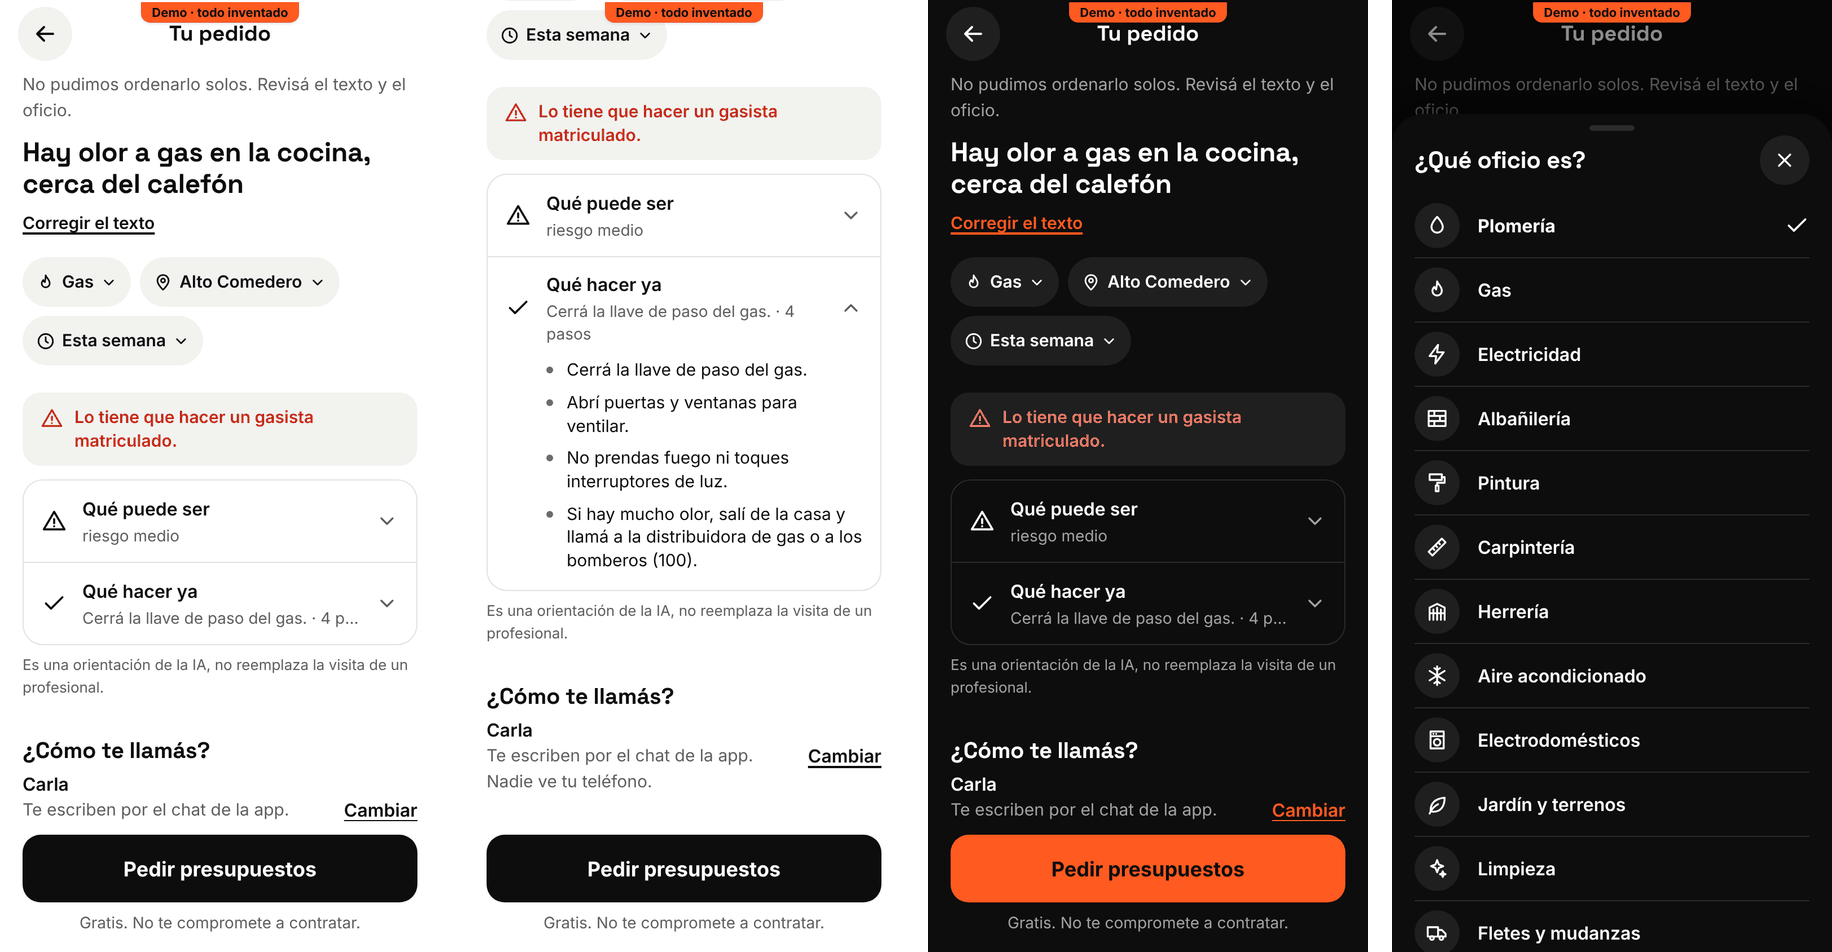
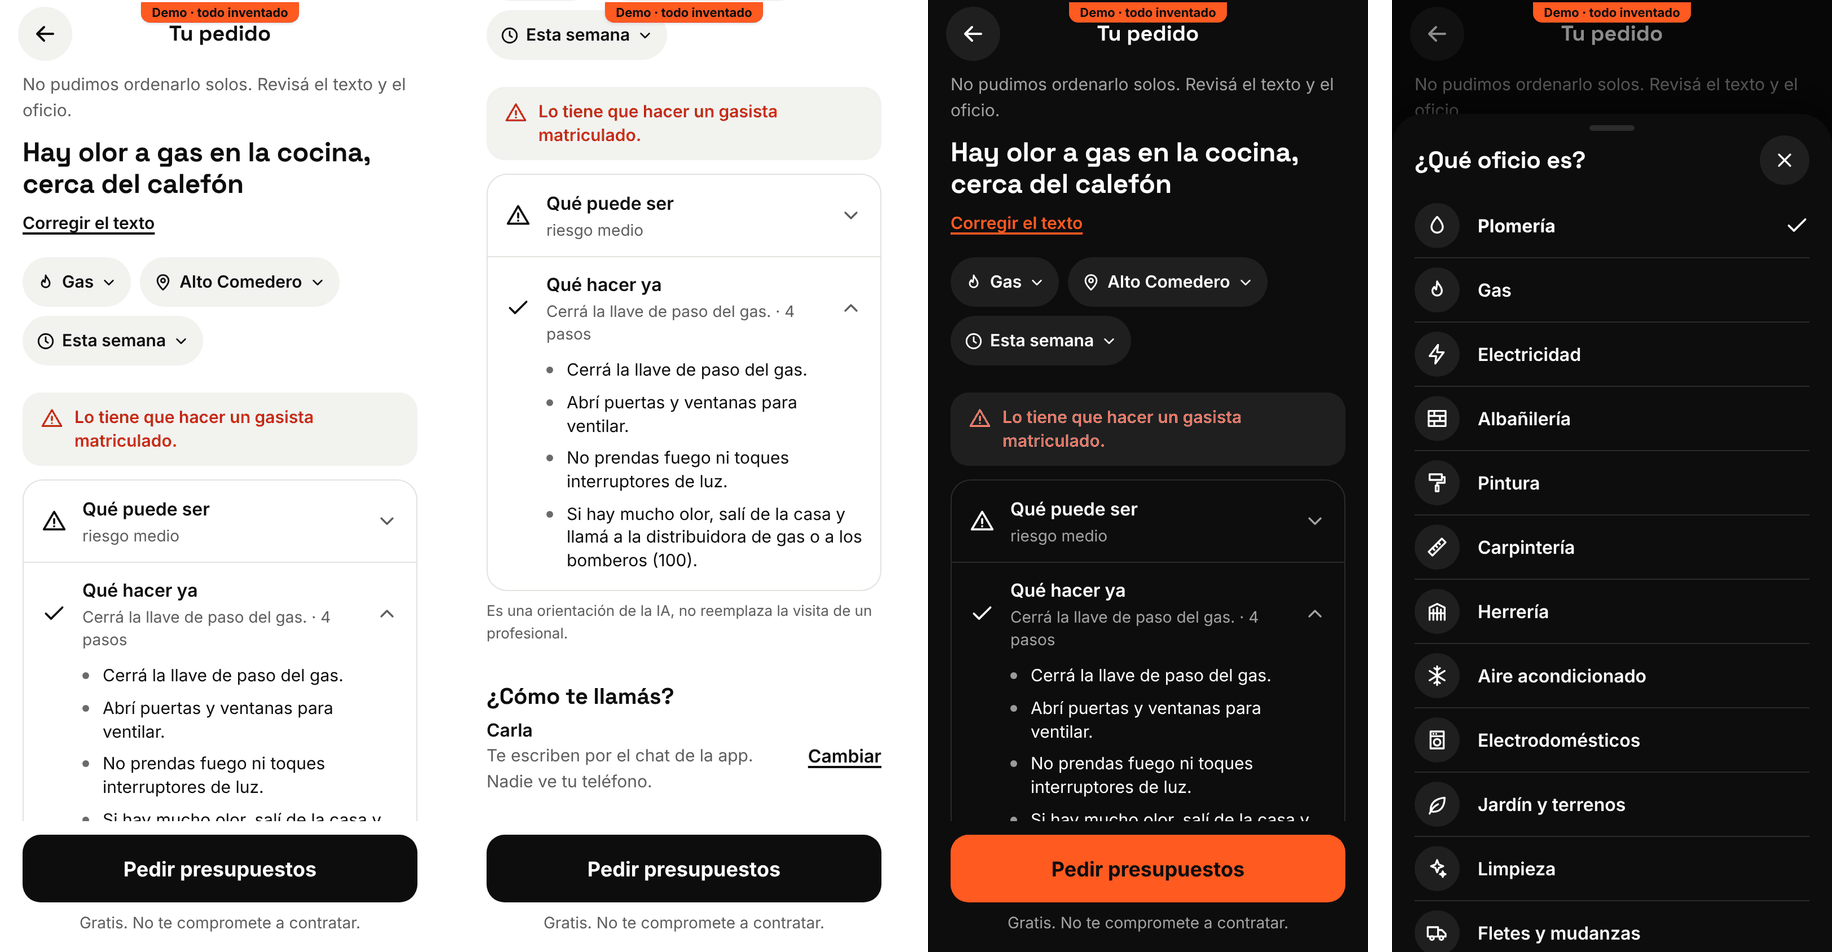
Contar: la precarga no pisa lo escrito al volver, atrás de Android vuelve un paso, y los pasos de seguridad a la vista

Changed region(s): [[0.0, 0.6092, 0.2178, 0.8834], [0.5289, 0.6092, 0.7467, 0.8834]]

diff --git a/src/app/pedir/page.tsx b/src/app/pedir/page.tsx
@@ -6,6 +6,7 @@ import { CajaRelato } from "@/components/CajaRelato";
 import { Diagnostico } from "@/components/Diagnostico";
 import { EntrarACuenta } from "@/components/EntrarACuenta";
 import { ChipConOpciones } from "@/components/Hoja";
+import { useCerrarConAtras } from "@/components/useAtras";
 import { Mapa } from "@/components/Mapa";
 import { iconoDe, useMisPedidos, type MiPedido } from "@/components/useMisPedidos";
 import { BotonPrimario, Cabecera, Campo, ErrorDePantalla, Falta, Icono, Pantalla, PildoraFlotante, Seccion, Titulo, claseCampo } from "@/components/ui";
@@ -47,6 +48,17 @@ const URGENCIAS: { id: Urgencia; texto: string; icono: string }[] = [
   { id: "flexible", texto: "Sin apuro", icono: "calendario" },
 ];
 const OFICIOS = RUBROS.map((r) => ({ id: r.id as RubroId, texto: r.nombre, icono: r.id }));
+// En Contar se puede volver a dejar el oficio en manos de la IA.
+const OFICIOS_O_LA_APP: { id: RubroId | "app"; texto: string; icono: string; detalle?: string }[] = [
+  { id: "app", texto: "Que lo decida la app", icono: "ayuda", detalle: "Según lo que cuentes" },
+  ...OFICIOS,
+];
+
+// En la app de Android, el botón atrás del celular vuelve un paso (si no, cerraría la app: todos los pasos son "/").
+function AtrasVuelveUnPaso({ alVolver }: { alVolver: () => void }) {
+  useCerrarConAtras(alVolver);
+  return null;
+}
 
 // Accesos por oficio en el inicio: tocar uno abre Contar con ese oficio elegido.
 const OFICIOS_DEL_INICIO: RubroId[] = ["plomeria", "electricidad", "gas", "cerrajeria", "albanileria", "pintura", "carpinteria", "herreria"];
@@ -101,10 +113,16 @@ export default function Pedir() {
     usoLaVoz.current = true;
   }, []);
 
-  // "Pedir de nuevo" y los oficios del inicio llegan con el relato y el oficio en el historial: se precargan.
+  // "Pedir de nuevo", los oficios del inicio y los perfiles públicos (?texto=) llegan con el relato y el oficio:
+  // se precargan una sola vez y se sacan de la entrada del historial. Así, volver o avanzar a Contar no pisa lo
+  // que la persona escribió después (y no se puede publicar dos veces lo mismo volviendo atrás).
   useEffect(() => {
+    const texto = parametros.get("texto");
+    if (!estadoDelPaso.relato && !estadoDelPaso.rubro && texto === null) return;
     if (estadoDelPaso.relato) setRelato(estadoDelPaso.relato);
+    else if (texto !== null) setRelato(texto);
     if (estadoDelPaso.rubro) setRubroElegido(estadoDelPaso.rubro);
+    navegar(ubicacion.pathname, { replace: true, state: { paso: estadoDelPaso.paso ?? "contar" } });
     // Solo cuando cambia la entrada del historial.
   }, [ubicacion.key]);
 
@@ -139,7 +157,7 @@ export default function Pedir() {
 
   // Volver a Contar con el botón atrás después de publicar deja la pantalla vacía: ahí se va al inicio.
   useEffect(() => {
-    if (paso === "contar" && tipoDeNavegacion === "POP" && !relato.trim() && !estadoDelPaso.relato) {
+    if (paso === "contar" && tipoDeNavegacion === "POP" && !relato.trim()) {
       navegar(ubicacion.pathname, { replace: true, state: null });
     }
     // Solo al llegar a esta entrada del historial.
@@ -283,6 +301,7 @@ export default function Pedir() {
           </>
         }
       >
+        <AtrasVuelveUnPaso alVolver={volver} />
         <Cabecera alVolver={volver} titulo="Tu pedido" />
         {fuente === "basico" && <p className="mt-1 text-[15px] text-ink-500">No pudimos ordenarlo solos. Revisá el texto y el oficio.</p>}
 
@@ -380,6 +399,7 @@ export default function Pedir() {
           </>
         }
       >
+        <AtrasVuelveUnPaso alVolver={volver} />
         <Cabecera alVolver={volver} titulo="Contanos qué pasa" />
 
         <div className="mt-2 flex flex-wrap gap-2">
@@ -394,7 +414,13 @@ export default function Pedir() {
             etiqueta={urgenciaActual ? `Urgencia: ${urgenciaActual.texto}. Cambiar` : "Elegir para cuándo lo necesitás"}
           />
           {rubroElegido && (
-            <ChipConOpciones titulo="¿Qué oficio es?" opciones={OFICIOS} valor={rubroElegido} alCambiar={setRubroElegido} etiqueta={`Oficio: ${rubroPorId(rubroElegido).nombre}. Cambiar`} />
+            <ChipConOpciones
+              titulo="¿Qué oficio es?"
+              opciones={OFICIOS_O_LA_APP}
+              valor={rubroElegido}
+              alCambiar={(valor) => setRubroElegido(valor === "app" ? null : valor)}
+              etiqueta={`Oficio: ${rubroPorId(rubroElegido).nombre}. Cambiar`}
+            />
           )}
         </div>
 

diff --git a/src/components/Diagnostico.tsx b/src/components/Diagnostico.tsx
@@ -46,7 +46,8 @@ type Parte = "causa" | "pasos" | "materiales";
 // Con gas o electricidad, el aviso de matriculado queda siempre a la vista, arriba de la tarjeta.
 // `para` cambia el tono: el vecino ve "qué hacer ya"; el prestador ve lo mismo para llegar preparado.
 export function Diagnostico({ diagnostico, para = "vecino" }: { diagnostico: DatosDeDiagnostico; para?: "vecino" | "prestador" }) {
-  const [abierta, setAbierta] = useState<Parte | null>(null);
+  // Con pasos de seguridad o riesgo alto, "Qué hacer ya" arranca abierto: no tiene que quedar escondido.
+  const [abierta, setAbierta] = useState<Parte | null>(diagnostico.seguridad.length > 0 || diagnostico.riesgo === "alto" ? "pasos" : null);
   const alternar = (parte: Parte) => setAbierta((actual) => (actual === parte ? null : parte));
   const pasos = [...diagnostico.seguridad, ...diagnostico.queHacerYa];
   const riesgo = RIESGO[diagnostico.riesgo];
